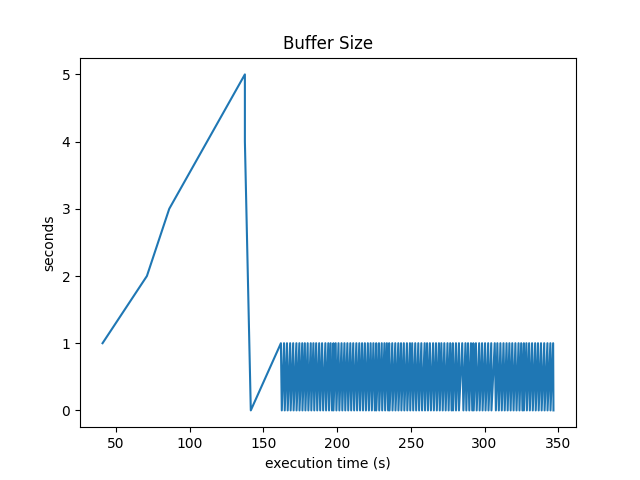
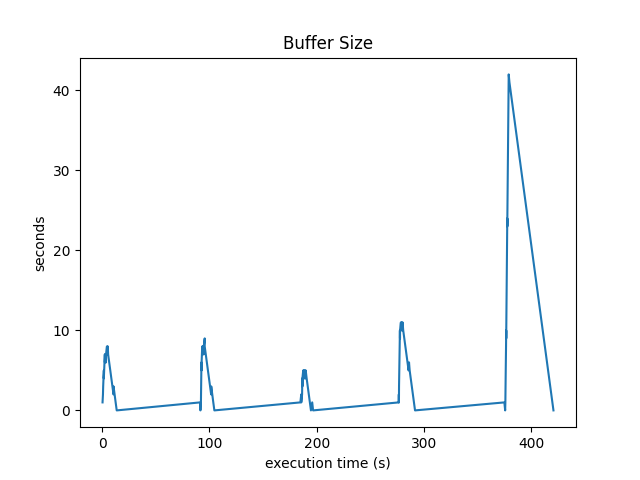
melhorando pesagem

diff --git a/r2a/r2abesttimethrouput.py b/r2a/r2abesttimethrouput.py
@@ -3,13 +3,14 @@ from player.parser import *
 from r2a.ir2a import IR2A
 from statistics import mean
 import random
+import math
 
 class R2ABestTimeThrouput(IR2A):
     def __init__(self, id): #inicializa as variaveis
       IR2A.__init__(self,id)
       self.request_time = 0
       self.qi = []
-      self.tempos = [0] * 20
+      self.tempos = []
       self.bestperf = 0
       self.besttime = 10000000000000
       self.lastpause = -1
@@ -18,7 +19,8 @@ class R2ABestTimeThrouput(IR2A):
         throuput = element[0]/element[1] #throuput
         high = len(self.qi) - 1
         low = 0
-        weight = 13 #peso inicial
+        weight = 0.8 #peso inicial
+        qualityid = len(self.qi)
 
         while low <= high: #aproxima o throuput em relaçao as qualidades utilizando busca binaria
             mid = (high + low)//2
@@ -32,7 +34,7 @@ class R2ABestTimeThrouput(IR2A):
             if self.qi[mid] > throuput: #testa o maior throuput em relacao a entrada
                 self.tempos[mid] = element[1] #se sim salva na lista de tempos o tempo de requisicao
                 if mid > weight and element[1] < self.besttime: #checa se a qualidade encontrada e boa e faz o repeso dependendo do tempo de requisicao
-                    weight = mid
+                    weight = mid//len(self.qi)
                 break
 
         amount_rest = self.whiteboard.get_amount_video_to_play() #usa o amount rest e o playback_qi como metrica de comparacao
@@ -42,35 +44,35 @@ class R2ABestTimeThrouput(IR2A):
         pbpause = self.whiteboard.get_playback_pauses()
 
         if element[1] > self.besttime: # a pesagem é nivelada de acordo com o throuput recebido como parametro
-            weight -=2
+            weight -= 0.2
         elif element[1] < self.besttime:
-            weight +=2
+            weight += 0.2
 
         if len(playback_qi) > 1:
             difval = playback_qi[-1][0] - playback_qi[-2][0] #pega os ultimos valores da lista dos ultimos tempos de video tocados e compara
             if difval > 1.9 or amount_rest > 50: #se a diferenca for maior que 1.9 o algoritmo prioriza o desempenho
-                weight -= 2
+                weight -= 0.2
             elif difval < 1.5: #se a diferenca for menor que 1.5 o algoritmo prioriza a qualidade do video
-                weight += 2
+                weight += 0.2
             
             if difval <= 1.1:
-                weight += 2
+                weight += 0.001
 
             if len(buf) > maxbuf: #se o buffer tiver muito cheio, prioriza o desempenho
-                weight = 5
+                weight =  0.2
             
             if len(pbpause) > 0 and self.lastpause != pbpause[-1][1]:
                 self.lastpause = pbpause[-1][1] #pega o tempo do ultimo pause ocorrido
                 if self.lastpause > 20 or len(pbpause) > 2: #repesa caso hajam interrupções da transmissao
-                    weight = 5
+                    weight = 0.2
 
-        if weight > 17: #nivela o intervalo dos pesos
-            weight = 16
+        if weight > 1: #nivela o intervalo dos pesos
+            weight = 0.7
         elif weight < 0:
-            weight = 5
-
-        self.besttime = self.tempos[weight] #escolhe o melhor peso e salva
-        self.bestperf = weight
+            weight = 0.2
+            
+        self.besttime = self.tempos[int(weight*qualityid)] #escolhe o melhor peso e salva
+        self.bestperf = int(weight*qualityid)
 
     def get_best_time(self): #retorna o index de melhor qualidade
         return self.bestperf
@@ -82,6 +84,7 @@ class R2ABestTimeThrouput(IR2A):
     def handle_xml_response(self, msg):
         parsed_mpd = parse_mpd(msg.get_payload()) #pega a lista de qualidades disponiveis de video
         self.qi = parsed_mpd.get_qi()
+        self.tempos = [0] * len(self.qi)
         
         t = time.perf_counter() - self.request_time
         self.set_tempos((msg.get_bit_length(), t)) #Salva na lista de tempos os dados a serem mensurados
@@ -91,9 +94,6 @@ class R2ABestTimeThrouput(IR2A):
     def handle_segment_size_request(self, msg):
         self.request_time = time.perf_counter() #calcula o tempo de requisiçao
 
-        print(self.whiteboard)
-        #print(self.container)
-        
         bestval = self.get_best_time() #pega da lista a melhor qualidade
         selected_qi = self.qi[bestval] #seleciona a qualidade
         msg.add_quality_id(selected_qi)
